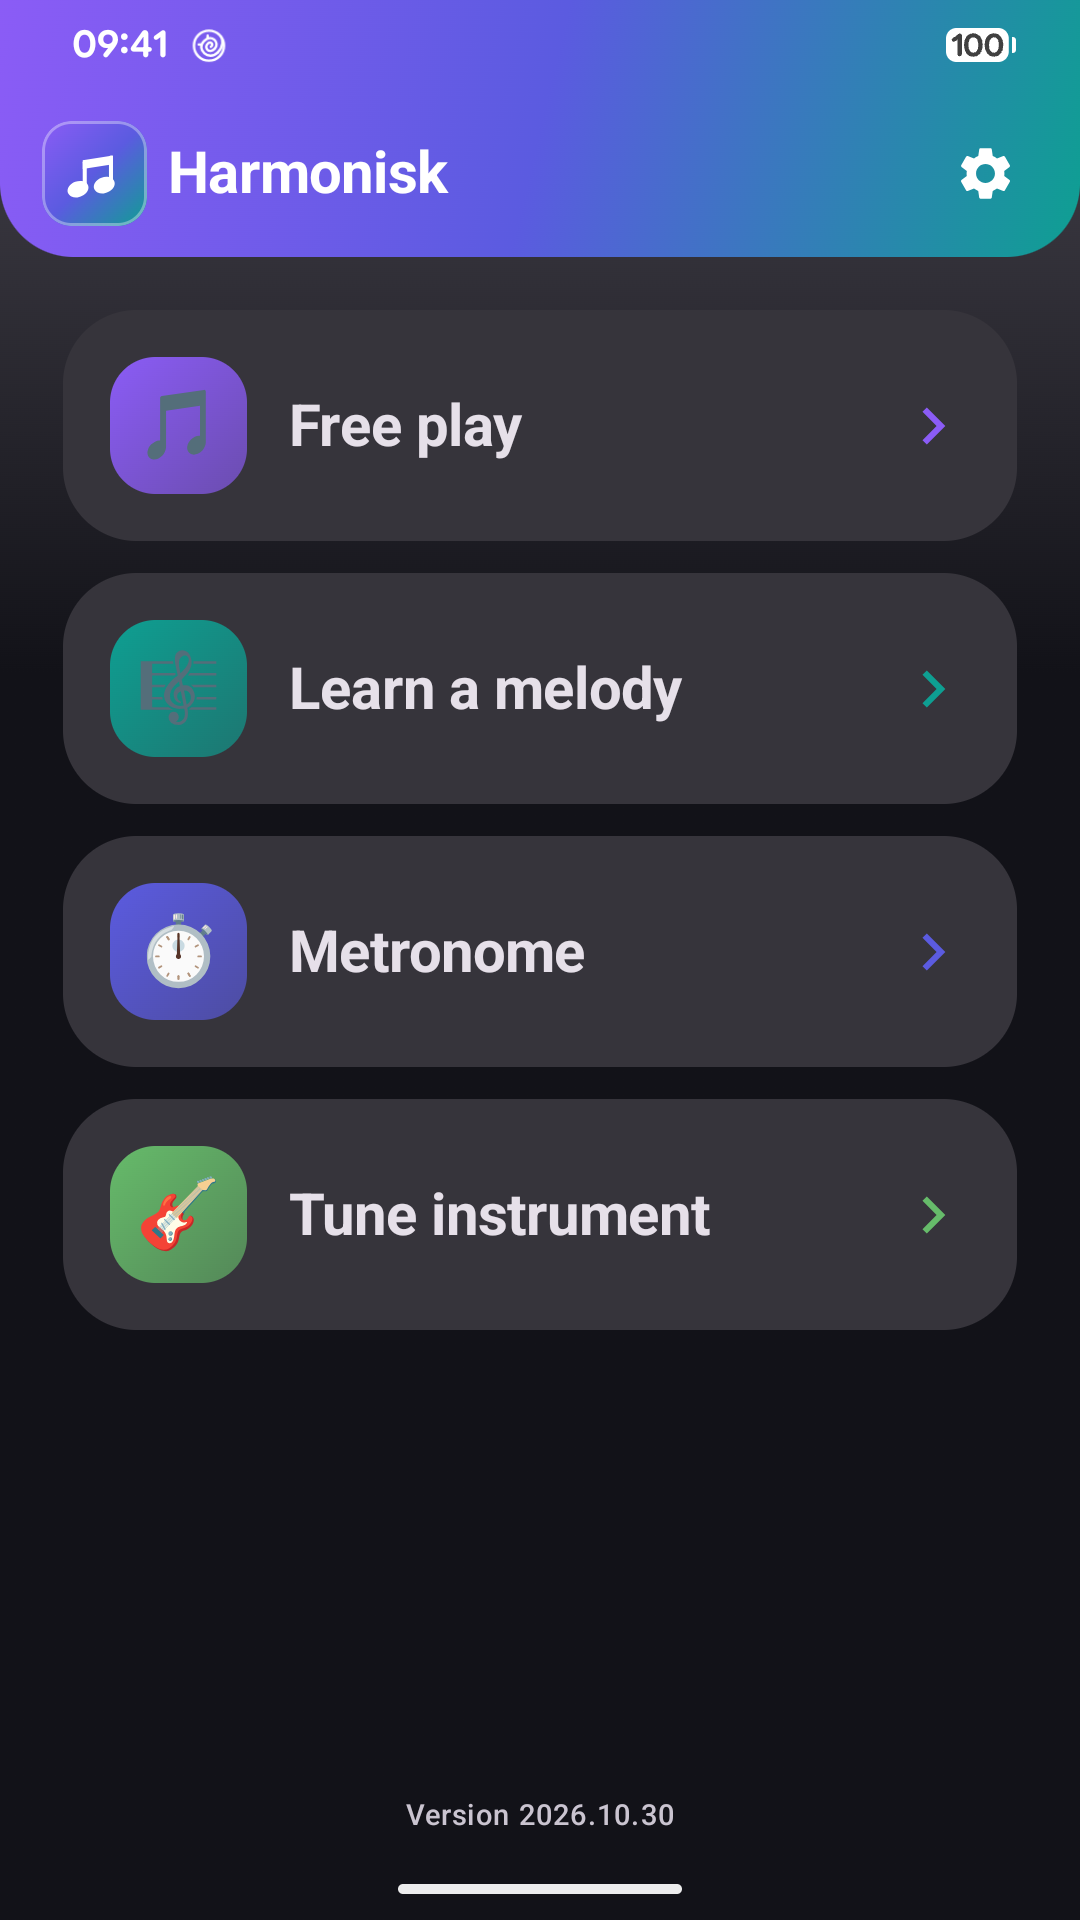
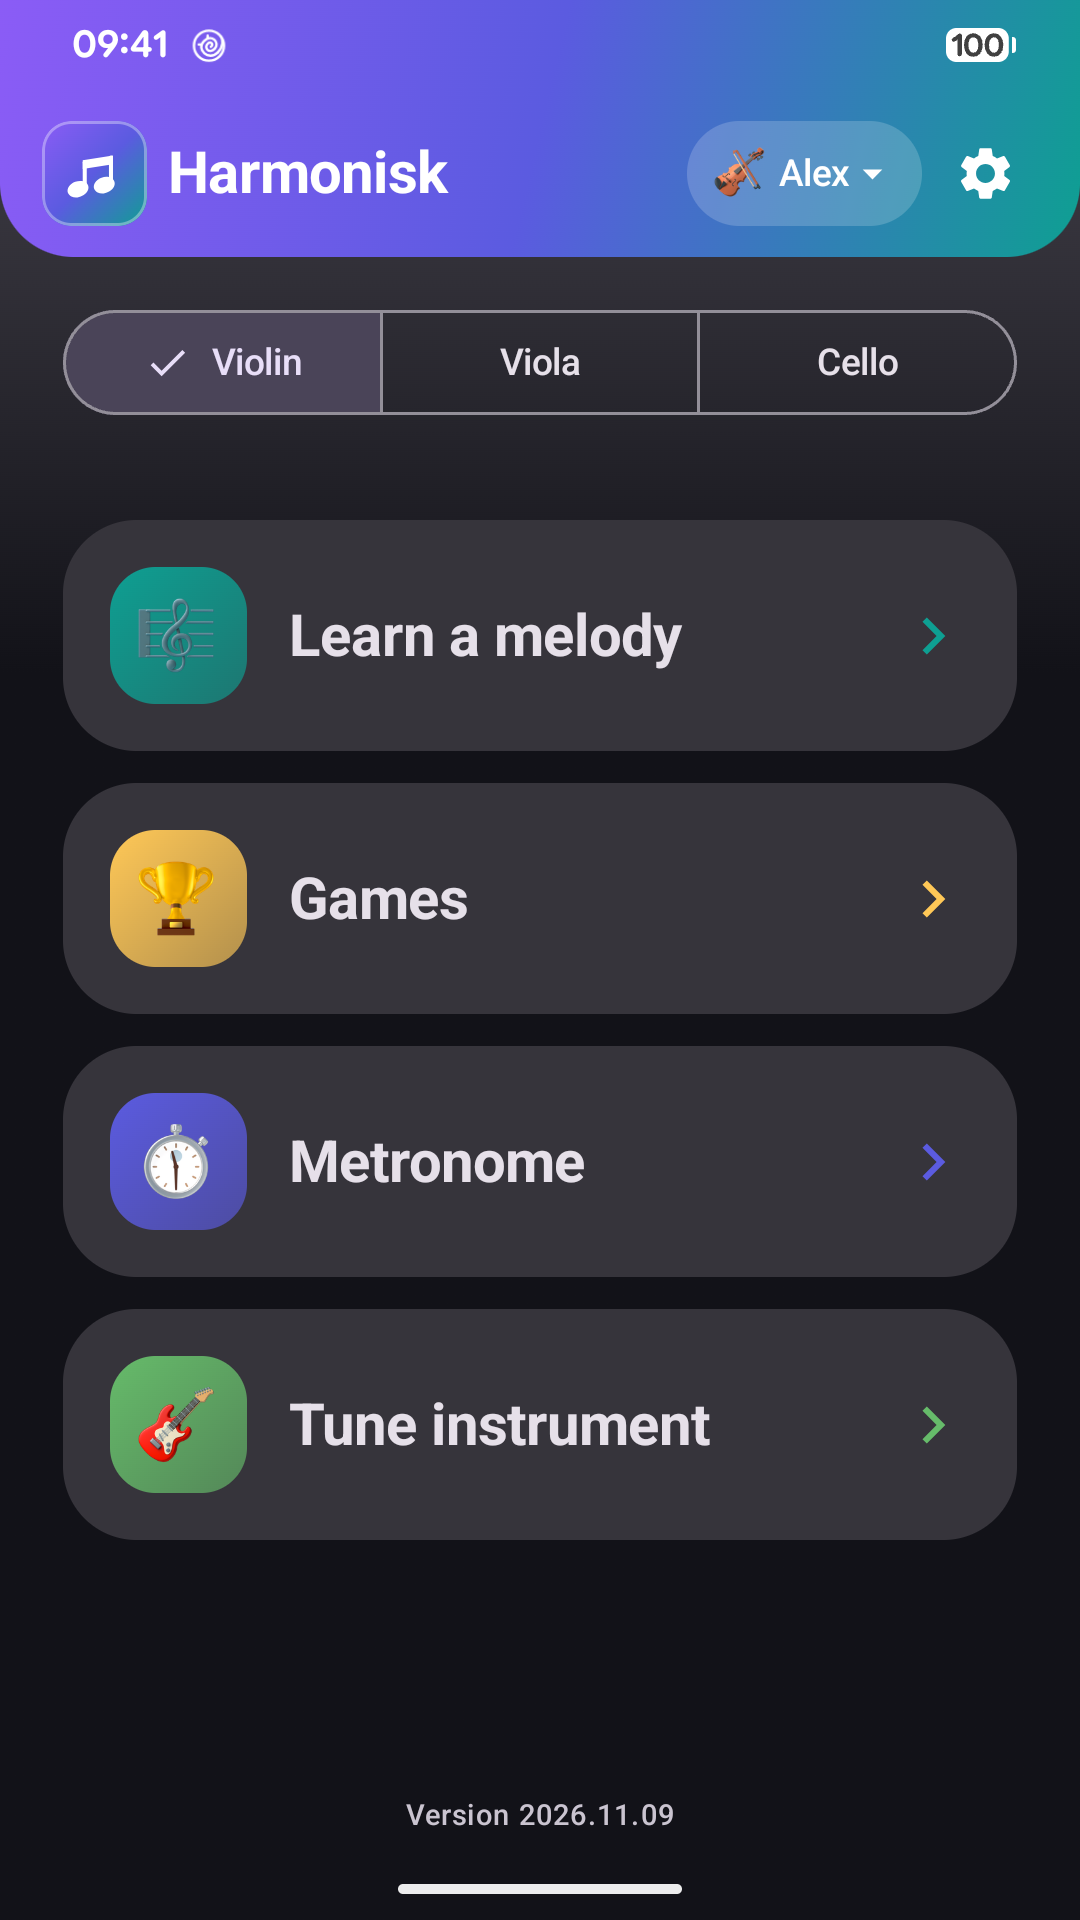
Refresh the Play Store assets for the adventure release
The listing still showed Free Play and the old melody screen. Replace
the four screenshots with six from 2026.11.09: the home screen, the
adventure map, whack a tone, the melody screen, the metronome and the
tuner. Rebuild the feature graphic around the adventure map and rewrite
the description for the games, profiles and the three supported
instruments.

diff --git a/store/README.md b/store/README.md
@@ -16,19 +16,22 @@ leaves beta.
 
 ## Screenshots — `screenshots/phone/en-US/`
 
-Four phone screenshots, in the order they should appear in the listing:
+Six phone screenshots, in the order they should appear in the listing:
 
 1. `01-home.png` — the four modes
-2. `02-learn-a-melody.png` — Ode To Joy being played, with timing colours
-3. `03-metronome.png` — the metronome running with an accented beat
-4. `04-tuner.png` — the tuner showing an in-tune A4
+2. `02-adventure.png` — the adventure map with the die and a token
+3. `03-whack-a-tone.png` — an emoji on the string board
+4. `04-learn-a-melody.png` — Ode To Joy being played, with timing colours
+5. `05-metronome.png` — the metronome running with an accented beat
+6. `06-tuner.png` — the tuner showing an in-tune A4
 
 Specs: 1080x1920 (9:16), 24-bit PNG without alpha. Play accepts 2-8 phone
 screenshots, minimum 320 px, maximum 3840 px, no side longer than twice the
 other, and at most 8 MB per image. These were captured on a Pixel 7 Pro running
-app version `2026.10.30` in English, with the status bar set to 09:41 and 100%
+app version `2026.11.09` in English, with the status bar set to 09:41 and 100%
 battery. The listing is English-only, so keep the app language set to English
-when recapturing.
+when recapturing. The captures use a neutral profile named Alex; create a
+temporary one and delete it afterwards.
 
 To regenerate them, install a release APK, set the app language to English, then
 capture at 9:16:
@@ -63,9 +66,10 @@ Exit demo mode afterwards with `-e command exit` and
 Both derive from the same artwork as the launcher icon
 (`app/src/main/res/drawable/ic_launcher_background.xml` and
 `ic_launcher_foreground.xml`): a purple-to-teal gradient with white beamed
-eighth notes. The feature graphic also shows `02-learn-a-melody.png` in a phone
-mockup, so regenerate it when the practice screen changes. Keep the icon in sync
-if the launcher artwork changes.
+eighth notes. The feature graphic shows `02-adventure.png` in a phone mockup
+with the tagline "Practice pitch. Learn melodies. Play games. Tune up." and the
+mode line, so regenerate it when the adventure map or the mode list changes.
+Keep the icon in sync if the launcher artwork changes.
 
 ## Still required by Google Play
 
